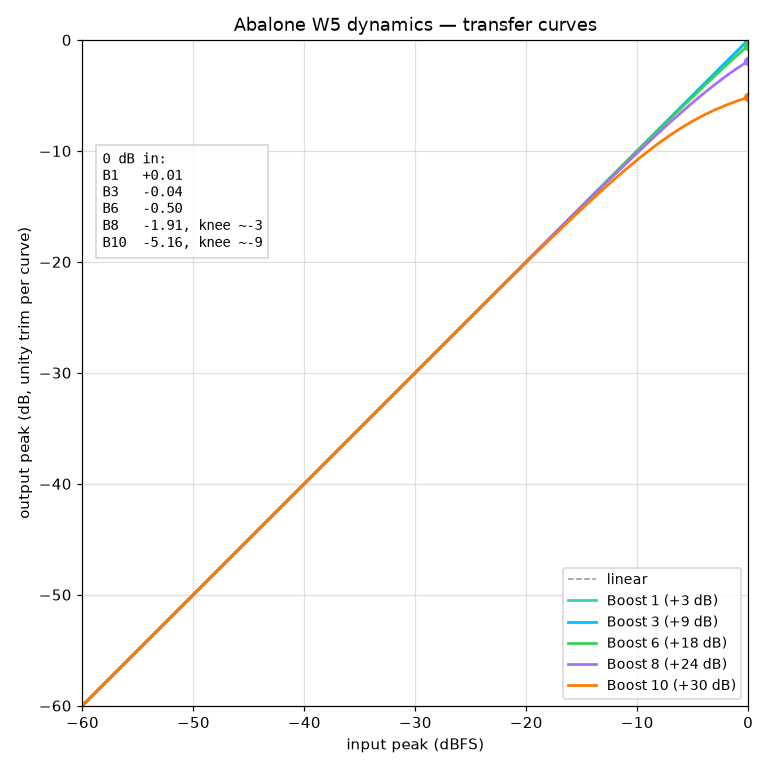
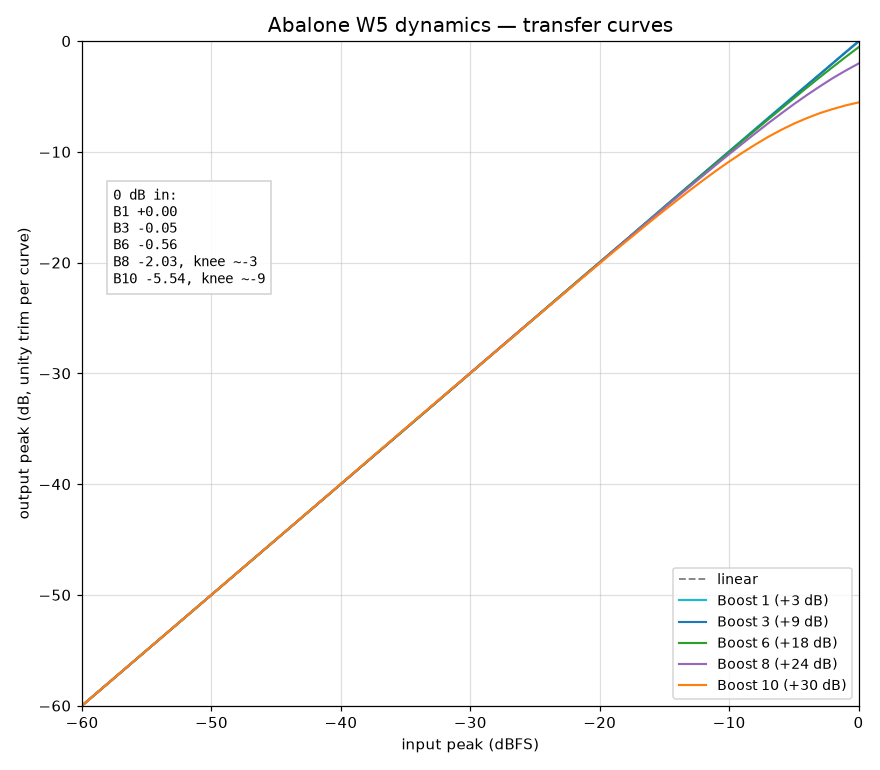
docs: live dynamics generator (DynDump + plot script), re-rendered

diff --git a/analysis/circuit_trace/plot_dynamics.py b/analysis/circuit_trace/plot_dynamics.py
@@ -1,0 +1,89 @@
+"""Regenerate docs/dynamics.png from LIVE chain transfer (real DSP).
+
+Runs the DynDump docs tool (cmake --build build --target DynDump first),
+which sweeps steady 1 kHz sine peaks -60..0 dBFS per boost step through the
+real ProcessorChain (tone bypass, trim -3N unity staging; see
+analysis/dyn_dump.cpp for the fixed stimulus). Same commit as any DSP
+change that moves transfer shapes. numpy + matplotlib only.
+"""
+import os
+import subprocess
+import sys
+
+import numpy as np
+
+REPO = os.path.dirname(os.path.dirname(os.path.dirname(os.path.abspath(__file__))))
+CANDIDATES = [
+    os.path.join(REPO, "build", "DynDump.exe"),
+    os.path.join(REPO, "build", "DynDump"),
+]
+
+
+def load_rows():
+    for exe in CANDIDATES:
+        if os.path.isfile(exe):
+            break
+    else:
+        sys.exit("DynDump not found: run 'cmake --build build --target DynDump' first")
+    out = subprocess.run([exe], capture_output=True, text=True, check=True).stdout
+    rows = []
+    for line in out.splitlines():
+        line = line.strip()
+        if not line or line.startswith("inDb"):
+            continue
+        rows.append([float(v) for v in line.split(",")])
+    return np.array(rows)
+
+
+def main():
+    data = load_rows()
+    xs = data[:, 0]
+    curves = {
+        "Boost 1 (+3 dB)": (data[:, 1], "#17becf"),
+        "Boost 3 (+9 dB)": (data[:, 2], "#1f77b4"),
+        "Boost 6 (+18 dB)": (data[:, 3], "#2ca02c"),
+        "Boost 8 (+24 dB)": (data[:, 4], "#9467bd"),
+        "Boost 10 (+30 dB)": (data[:, 5], "#ff7f0e"),
+    }
+
+    import matplotlib
+
+    matplotlib.use("Agg")
+    import matplotlib.pyplot as plt
+
+    fig, ax = plt.subplots(figsize=(8, 7))
+    ax.plot(xs, xs, color="gray", lw=1.2, ls="--", label="linear")
+    box = ["0 dB in:"]
+    for name, (ys, color) in curves.items():
+        ax.plot(xs, ys, color=color, lw=1.4, label=name)
+        short = name.split()[1]
+        at0 = float(ys[-1])
+        droop = xs - ys  # >= 0 where saturation bites
+        knee = next((float(x) for x, d in zip(xs, droop) if d >= 1.0), None)
+        line = "B%s %+.2f" % (short, at0)
+        if knee is not None:
+            line += ", knee ~%.0f" % knee
+        box.append(line)
+    ax.set_title("Abalone W5 dynamics — transfer curves", fontsize=13)
+    ax.set_xlabel("input peak (dBFS)")
+    ax.set_ylabel("output peak (dB, unity trim per curve)")
+    ax.set_xlim(-60, 0)
+    ax.set_ylim(-60, 0)
+    ax.grid(True, alpha=0.4)
+    ax.legend(loc="lower right", fontsize=9)
+    ax.text(
+        0.04,
+        0.78,
+        "\n".join(box),
+        transform=ax.transAxes,
+        fontsize=9,
+        family="monospace",
+        va="top",
+        bbox=dict(facecolor="white", edgecolor="#cccccc", alpha=0.9),
+    )
+    fig.tight_layout()
+    fig.savefig(os.path.join(REPO, "docs", "dynamics.png"), dpi=110)
+    print("wrote docs/dynamics.png")
+
+
+main()

diff --git a/analysis/dyn_dump.cpp b/analysis/dyn_dump.cpp
@@ -1,0 +1,69 @@
+// Abalone W5 - U5-inspired clean DI.
+// Copyright (C) 2026 Sakdinat2548.
+// SPDX-License-Identifier: AGPL-3.0-or-later
+
+// Docs tool (NOT a test — no gates, no ctest registration): dumps the
+// steady-state boost transfer curves plotted as docs/dynamics.png. Drives
+// the real ProcessorChain, so the plot can never drift from shipped DSP.
+// Build once: cmake --build build --target DynDump
+// Run: ./build/DynDump > /tmp/dyn.csv  (or analysis/circuit_trace/
+// plot_dynamics.py, which runs it for you).
+// Stimulus (fixed and documented): 1 kHz sine peak sweep -60..0 dBFS in
+// 1 dB steps, tone bypass, highcut off, trim = -3N dB per curve (unity
+// staging: the linear region overlays y = x, saturation reads as droop),
+// 48 kHz, 1.0 s settle + 0.25 s peak window. Columns: inDbFS,B1,B3,B6,B8,B10
+// (dB peak out).
+
+#include <cmath>
+#include <cstdio>
+
+#include "dsp/ProcessorChain.h"
+
+namespace
+{
+
+constexpr double kFs = 48000.0;
+constexpr double kPi = 3.14159265358979323846;
+constexpr double kSettleSec = 1.0;
+constexpr double kWindowSec = 0.25;
+
+float settledPeakDb (int boostStep, float inDbFS)
+{
+    ProcessorChain chain;
+    chain.setSampleRate (kFs);
+    chain.setBoostStep (boostStep);
+    chain.setTone (0);
+    chain.setHighcut (false);
+    chain.setTrimDb (-3.0f * static_cast<float> (boostStep)); // unity staging per curve.
+    const float amp = std::pow (10.0f, inDbFS / 20.0f);
+    const int settle = static_cast<int> (kFs * kSettleSec);
+    const int window = static_cast<int> (kFs * kWindowSec);
+    for (int n = 0; n < settle; ++n)
+        chain.processSample (amp * static_cast<float> (std::sin (2.0 * kPi * 1000.0 * n / kFs)));
+    float peak = 0.0f;
+    for (int n = 0; n < window; ++n)
+    {
+        const float y =
+            chain.processSample (amp * static_cast<float> (std::sin (2.0 * kPi * 1000.0 * (settle + n) / kFs)));
+        const float a = std::fabs (y);
+        if (a > peak)
+            peak = a;
+    }
+    return 20.0f * std::log10 (peak);
+}
+
+} // namespace
+
+int main ()
+{
+    const int steps[5] = {1, 3, 6, 8, 10};
+    std::puts ("inDbFS,B1,B3,B6,B8,B10");
+    for (int level = -60; level <= 0; ++level)
+    {
+        std::printf ("%d", level);
+        for (int s = 0; s < 5; ++s)
+            std::printf (",%.2f", settledPeakDb (steps[s], static_cast<float> (level)));
+        std::puts ("");
+    }
+    return 0;
+}
